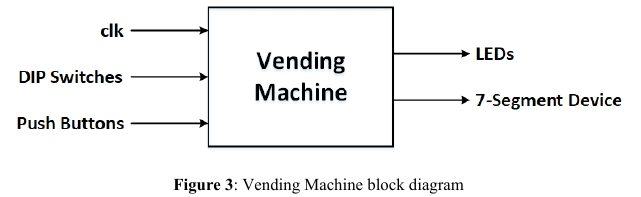
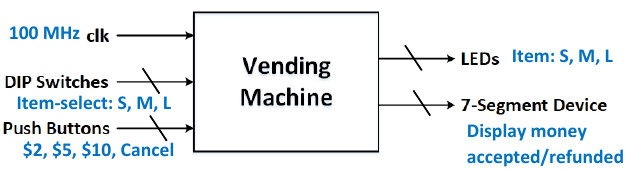
updated img and readme

diff --git a/README.md b/README.md
@@ -9,8 +9,9 @@ This is a showcase of an FPGA project I did while in Singapore Polytechnic
 
 In this assignment, students are required to design and implement a digital system using synchronous sequential logic using finite state machines(FSM) in Verilog on a Basys-3 FPGA board.
 
-|![Basys-3](https://github.com/khkhiu/Singapore_Polytechnic-FPGA_project/blob/main/img/Basys-3.jpg)|
-|<em>A Basys-3 board</em>|
+![Basys-3](https://github.com/khkhiu/Singapore_Polytechnic-FPGA_project/blob/main/img/Basys-3.jpg)
+
+<em>A Basys-3 board</em>
 
 ***
 
@@ -19,13 +20,15 @@ In this assignment, students are required to design and implement a digital syst
 ***
 Students are to design a generic Vending machine that will dispense a product of 3 different price points. The block diagram of the Vending machine controller is shown below.
 
-|![BlockDiagram](https://github.com/khkhiu/Singapore_Polytechnic-FPGA_project/blob/main/img/BlockDiagram.png)|
-|<em>Vending Machine block diagram</em>|
+![BlockDiagram](https://github.com/khkhiu/Singapore_Polytechnic-FPGA_project/blob/main/img/BlockDiagram.png)
+
+<em>Vending Machine block diagram</em>
 
 The clock comes from the oscillator of the Basys3 board and has a frequency of 100 MHz.DIP switches are used to select the size of the product to purchase, 3 LEDs are used to show which product is to be dispensed when the correct amount of money is inserted. The 7-segment display is used to show the amount of money inserted. The push buttons are used to input the money into the machine as shown Below. Only denomination of $2, $5 and $10 will be accepted by the machine.
 
-|![MoneyTable](https://github.com/khkhiu/Singapore_Polytechnic-FPGA_project/blob/main/img/MoneyTable.png)|
-|<em>Money table</em>|
+![MoneyTable](https://github.com/khkhiu/Singapore_Polytechnic-FPGA_project/blob/main/img/MoneyTable.png)
+
+<em>Money table</em>
 
 <strong>Operations of the vending machine</strong>
 
